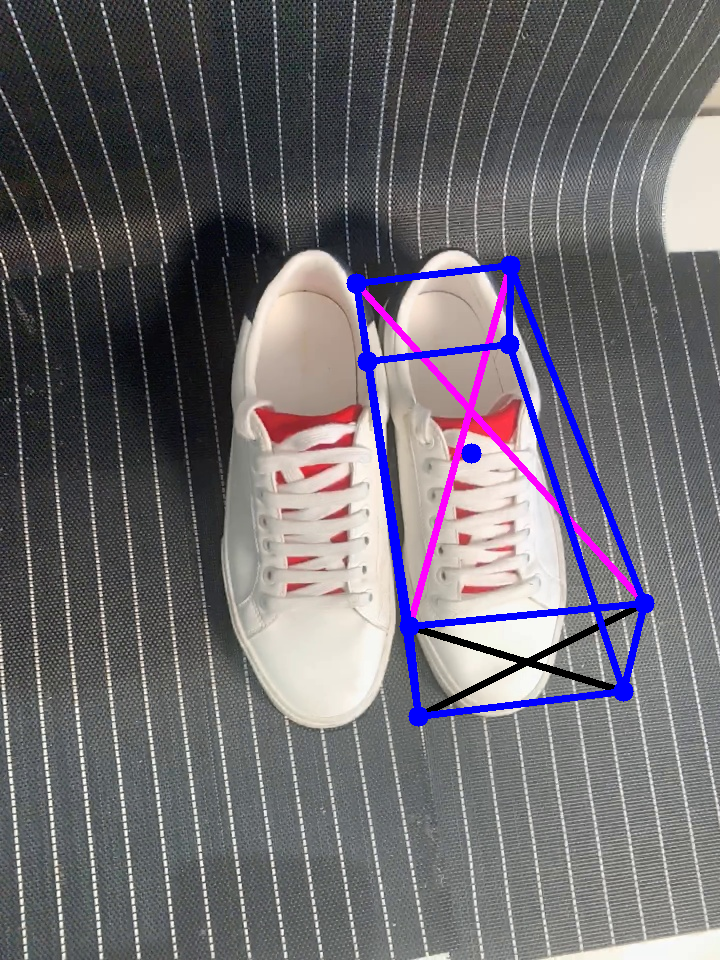
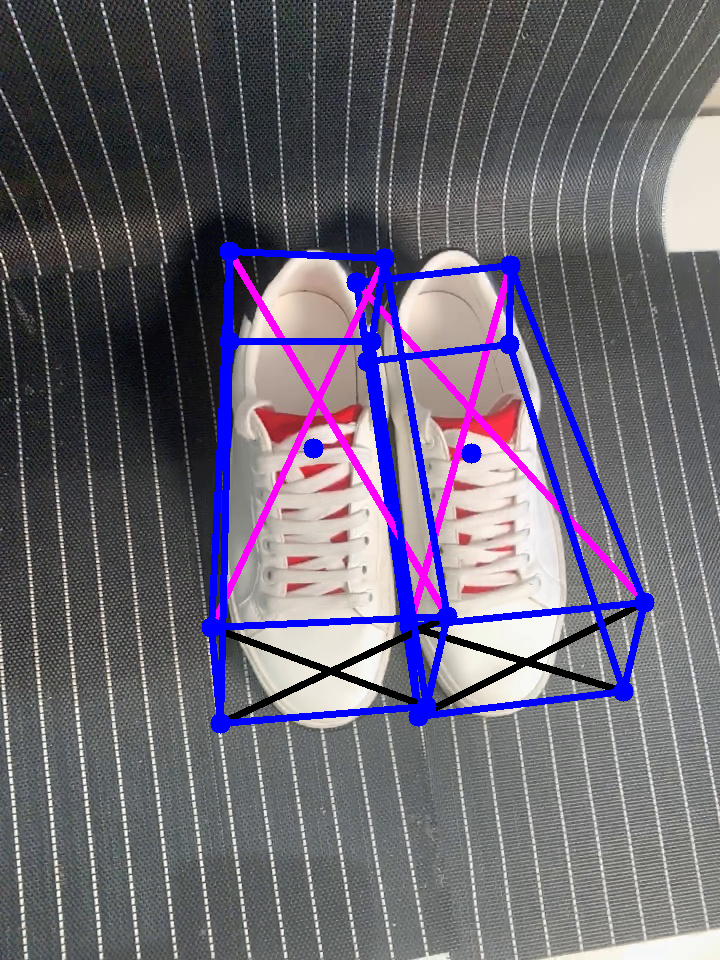
Set num_detect to unlimited

Changed region(s): [[0.275, 0.25, 0.6417, 0.7812]]

diff --git a/object_detection/mediapipe_objectron/mediapipe_objectron.py b/object_detection/mediapipe_objectron/mediapipe_objectron.py
@@ -69,7 +69,7 @@ parser.add_argument(
 )
 parser.add_argument(
     '-n', '--num_detect',
-    default=1, type=int,
+    default=-1, type=int,
     help='The number of objects to detect.'
 )
 args = update_parser(parser)
@@ -276,7 +276,7 @@ def predict(det_net, reg_net, img, labels=None):
         reg_detections.append((kp, label))
         det_detections.append((b_x, b_y, b_x + b_w, b_y + b_h))
 
-        if num_det <= len(reg_detections):
+        if num_det != -1 and num_det <= len(reg_detections):
             break
 
     det_detections = np.array(det_detections, dtype=np.int32)

diff --git a/README.md b/README.md
@@ -220,7 +220,7 @@ The collection of pre-trained, state-of-the-art AI models.
 | [<img src="object_detection/3d_bbox/output.png" width=128px>](object_detection/efficientdet/) | [3d_bbox](/object_detection/3d_bbox/) | [3D Bounding Box Estimation Using Deep Learning and Geometry](https://github.com/skhadem/3D-BoundingBox) | Pytorch | 1.2.6 and later |
 | [<img src="object_detection/nanodet/output.jpg" width=128px>](object_detection/nanodet/) | [nanodet](/object_detection/nanodet/) | [NanoDet](https://github.com/RangiLyu/nanodet) | Pytorch | 1.2.6 and later |
 | [<img src="object_detection/yolor/output.jpg" width=128px>](object_detection/yolor/) | [yolor](/object_detection/yolor/) | [yolor](https://github.com/WongKinYiu/yolor/tree/paper) | Pytorch | 1.2.5 and later |
-| [<img src="object_detection/mediapipe_objectron/output.png" width=128px>](object_detection/mediapipe_objectron/) | [mediapipe_objectron](/object_detection/mediapipe_objectron/) | [MediaPipe Objectron](https://github.com/google/mediapipe) | TensorFlow Lite | 1.2.8 and later |
+| [<img src="object_detection/mediapipe_objectron/output.png" width=128px>](object_detection/mediapipe_objectron/) | [mediapipe_objectron](/object_detection/mediapipe_objectron/) | [MediaPipe Objectron](https://github.com/google/mediapipe) | TensorFlow Lite | 1.2.5 and later |
 
 ## Object tracking
 
